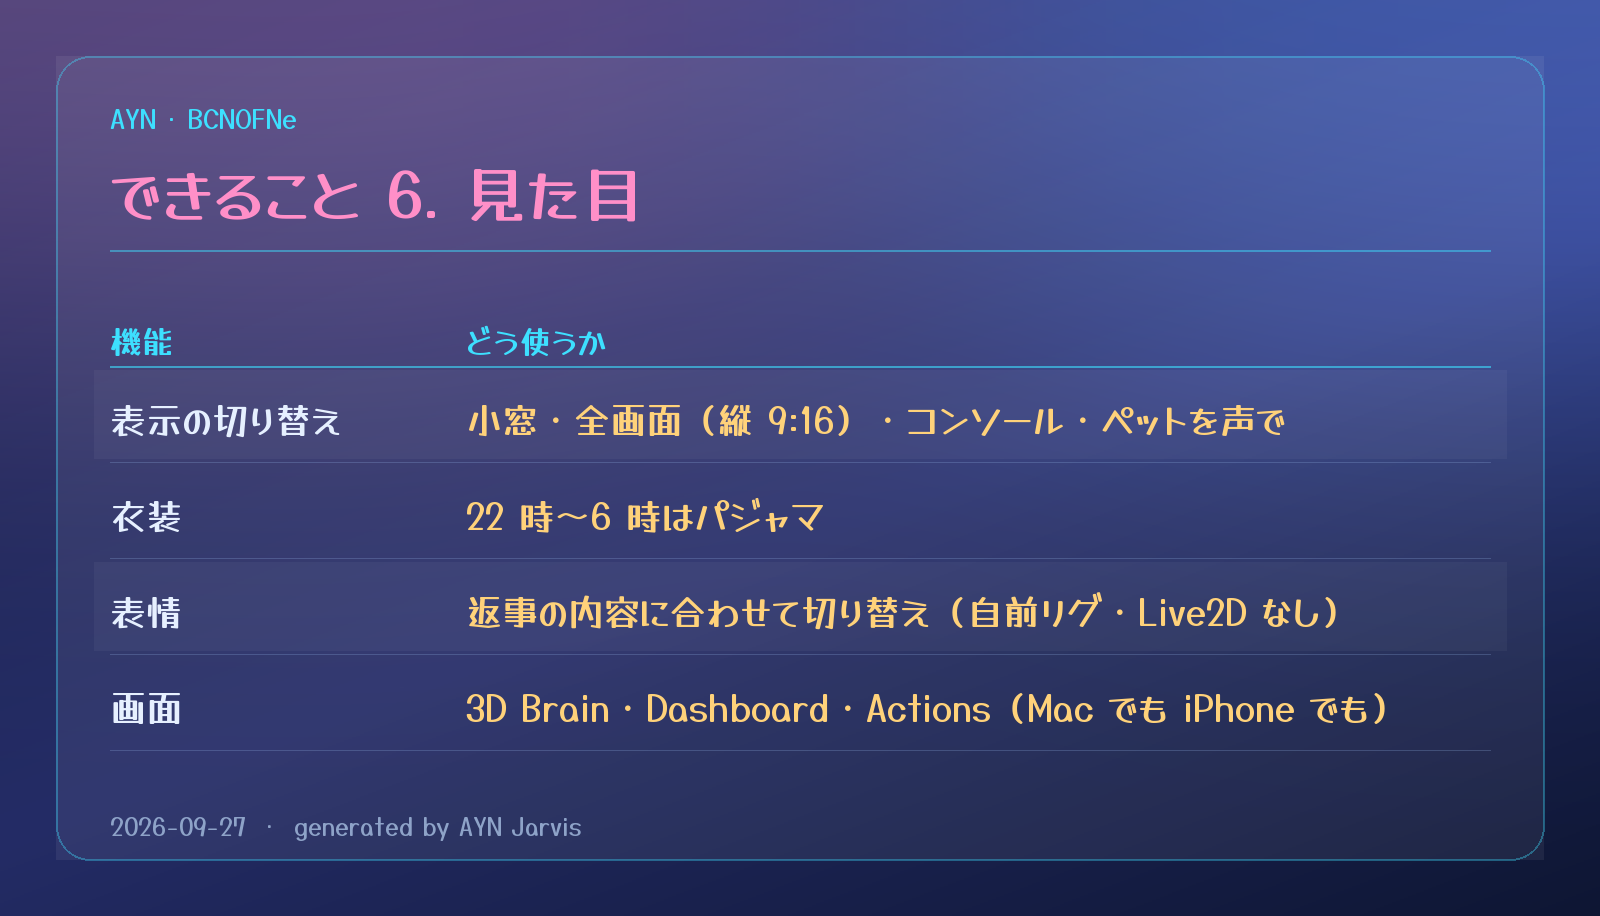
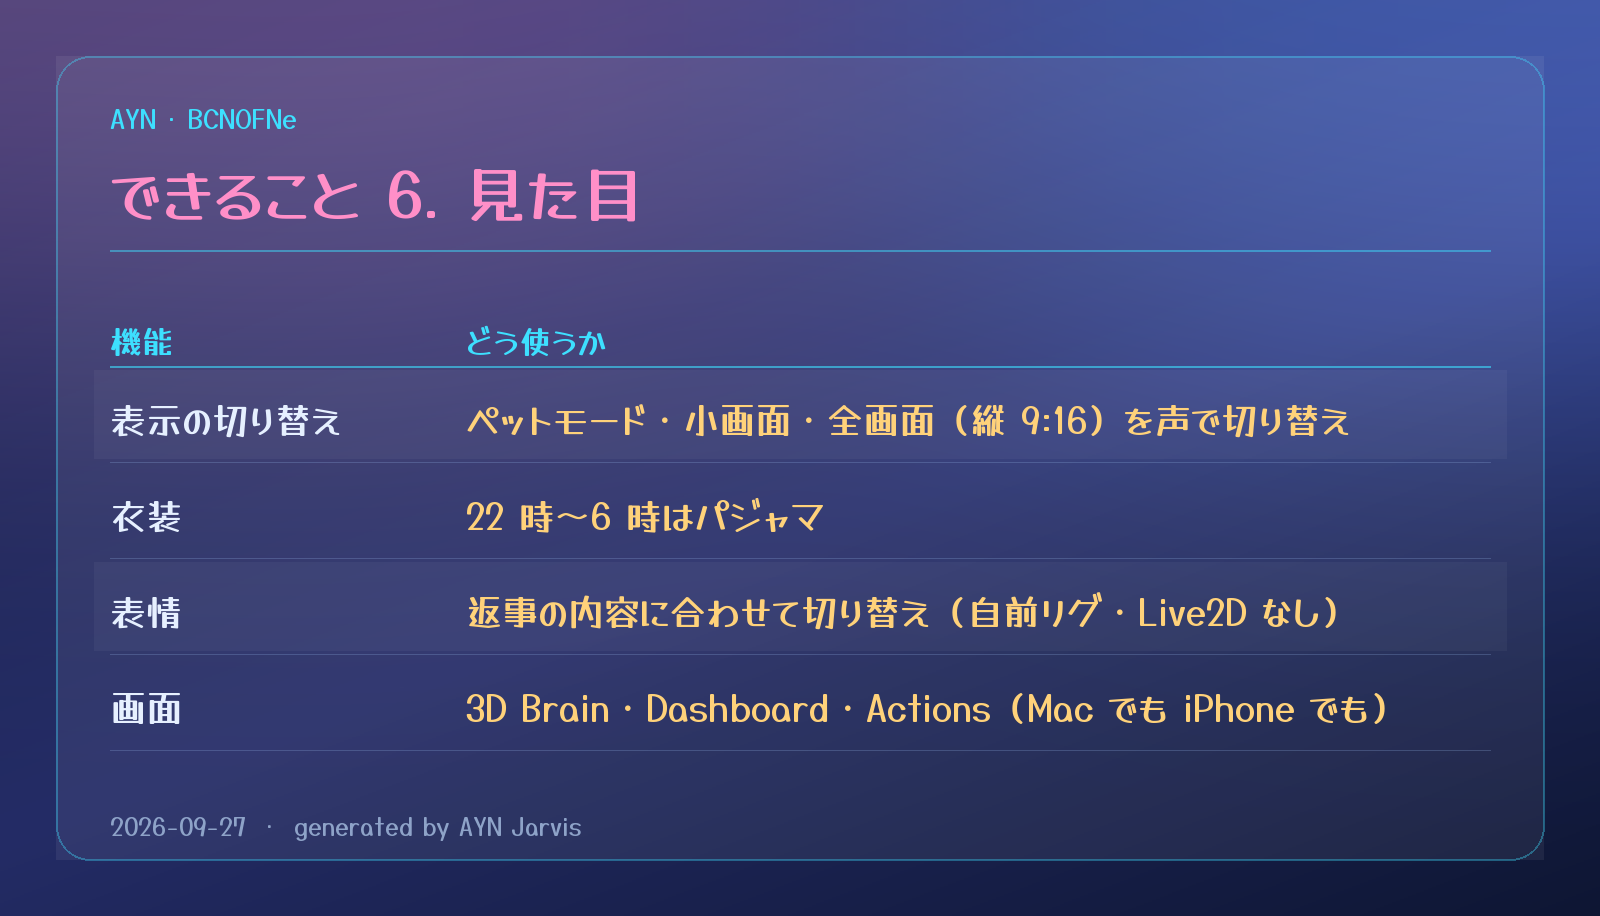
下書き: Bridge の新しいスクショ4枚・ペット/小画面/全画面・3D Brain は粒を押すと要約（非公開）

Changed region(s): [[0.2812, 0.4279, 0.8438, 0.4891]]

diff --git a/articles/ayn-jarvis-voice-assistant-intro.md b/articles/ayn-jarvis-voice-assistant-intro.md
@@ -169,8 +169,8 @@ POST /api/ask {text, source, audio, image?}
 - Mac の声・iPhone・Discord は1つのロックで直列にし、同じ会話セッションを共有します。iPhone で頼んだ続きを Mac で話せます
 - iPhone アプリ（SwiftUI）は返事を VOICEVOX の声で再生し、アプリ内の AYN が口パクします
 
-![iPhone の Bridge アプリ](/images/ayn-jarvis/iphone_bridge.png =320x)
-*iPhone の Bridge アプリの AYN タブ。マイクを長押しして話すか、文字で打ちます（この画像は Mac に未接続の状態）*
+![iPhone の Bridge アプリ](/images/ayn-jarvis/iphone_bridge.webp)
+*iPhone の Bridge アプリ。左から AYN タブ（マイク長押しか文字で話しかける）、操縦席（サイトと YouTube の数字）、3D Brain、Dashboard。Mac の画面を Tailscale 越しにそのまま開いています*
 
 Siri からは App Intent を1つ作っただけです。ショートカット App で「あゆにゃんに」という名前のショートカットにこのアクションを入れると、「Hey Siri、あゆにゃんに」で話しかけられます。
 
@@ -202,7 +202,7 @@ AYN Jarvis の文脈は、すべて Obsidian の Vault（約7,000ノート）に
 伝言板はファイル1枚で、未読と既読の2段だけ。既読は7日で月別のログに移すので膨らみません。3D Brain では、macOS が返す日本語ファイル名（NFD）を NFC にそろえてからリンクを解決しています。ここを揃えないと、濁点の付いたノートへのリンクがすべて「切れている」扱いになります。
 
 ![3D Brain](/images/ayn-jarvis/brain.png)
-*3D Brain。ログ類を除いた1,289ノートと1,772本のリンクを、フォルダ（カテゴリ）ごとに色分けして表示*
+*3D Brain。ログ類を除いた1,289ノートと1,772本のリンクを、フォルダ（カテゴリ）ごとに色分けして表示。粒1つが1ノートで、押すとそのノートの要約が横に出ます。「成長を再生」を押すと、ひとつのメモから脳が育っていく様子を再生します*
 
 ## 参考にしたリポジトリ
 
